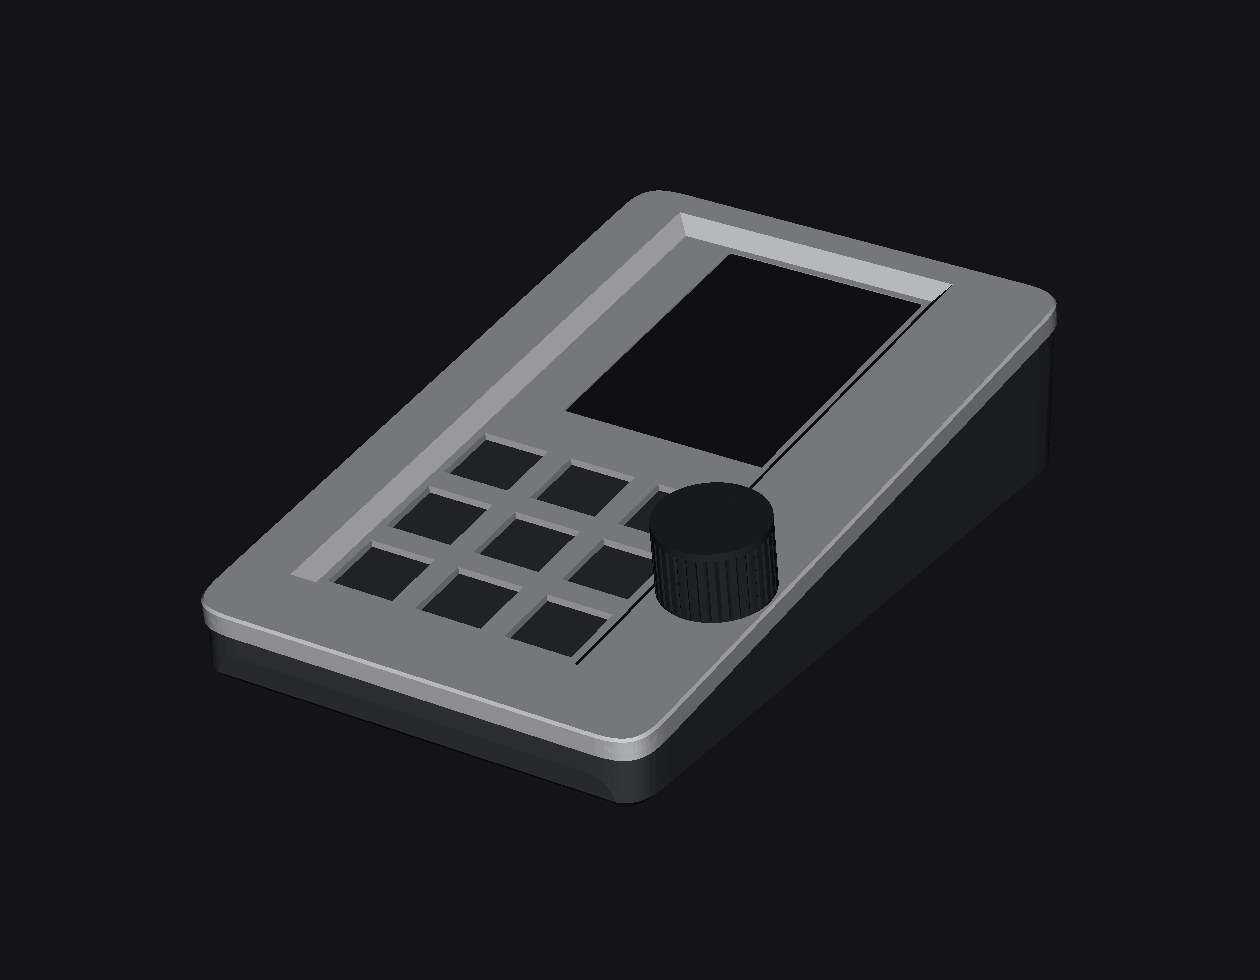
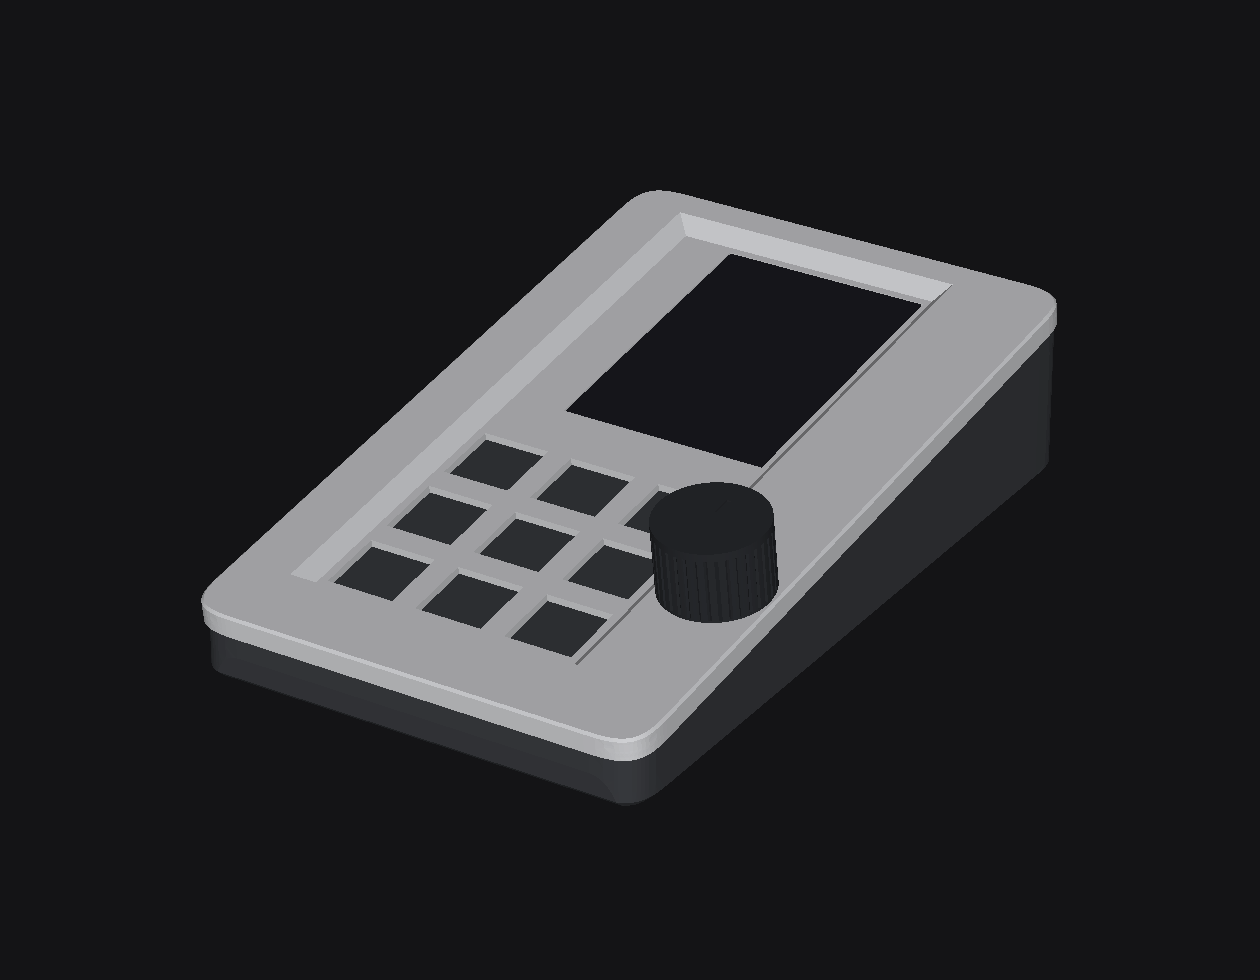
feat: keep a fill light on the case picture
A face that did not point at the camera was painted black.
The darkest face now stays 45 percent of its colour.

Changed region(s): [[0.1548, 0.1837, 0.8357, 0.7959]]

diff --git a/cad/obs_case/render.py b/cad/obs_case/render.py
@@ -91,7 +91,8 @@ def _shade(colour: np.ndarray, normal: np.ndarray, light: np.ndarray) -> np.ndar
     if length < 1e-12:
         return colour
     facing = max(float(normal @ light) / length, 0.0)
-    return np.clip(np.rint(colour * facing), 0, 255).astype(np.uint8)
+    shade = 0.45 + 0.55 * facing
+    return np.clip(np.rint(colour * shade), 0, 255).astype(np.uint8)
 
 
 def _paint(axis, parts: list[tuple[trimesh.Trimesh, np.ndarray]], eye: np.ndarray) -> np.ndarray:
